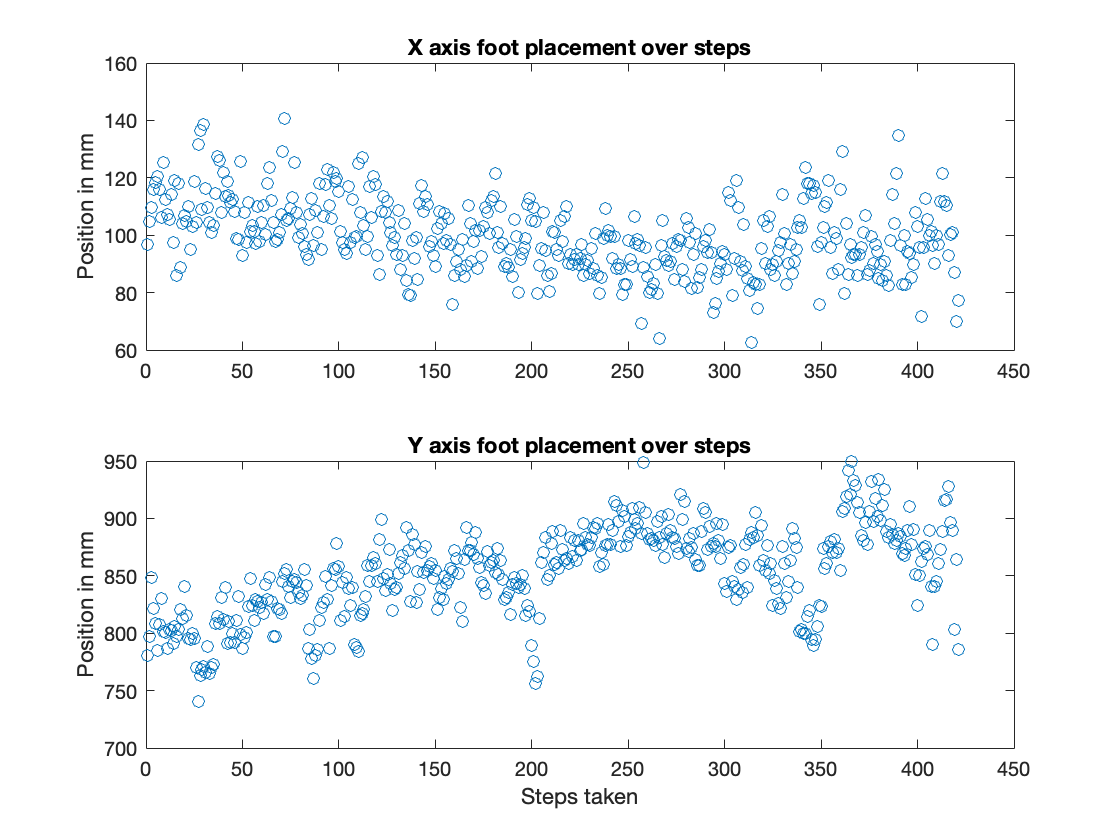
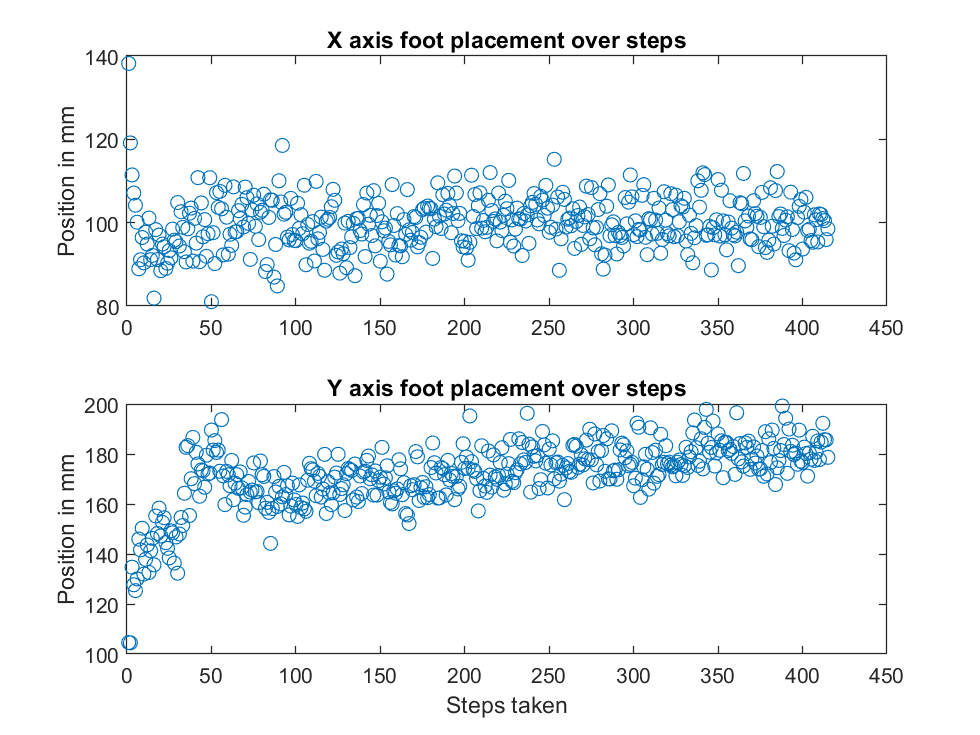
update Matlab code

diff --git a/Controller Inference/readViconData.m b/Controller Inference/readViconData.m
@@ -13,12 +13,32 @@ Foot_l_X = mean([ankle_marker_l(:,1), ankle_marker_l(:,4)], 2);
 Foot_l_Y = mean([ankle_marker_l(:,2), ankle_marker_l(:,5)], 2);
 Foot_l_Z = mean([ankle_marker_l(:,3), ankle_marker_l(:,6)], 2);
 
-%% Resampling force data into 100 Hz
-Force_r = []; Force_l = [];
+% Resampling force data into 100 Hz
+Force_r = []; Force_l = []; FP = [];
 for ii = 1:length(treadmill_r)/10
     Force_r(ii,1:9) = treadmill_r(ii*10-9,1:9);
-    Force_l(ii,1:9) = treadmill_r(ii*10-9,1:9);
+    Force_l(ii,1:9) = treadmill_l(ii*10-9,1:9);
+    FP(ii,1:3) = force_plate(ii*10-9,1:3);
 end
+
+%% Sync Data
+start_vec = find(FP(:,3) < -200);
+start_idx = start_vec(1);
+
+COM_pos_X = COM_pos_X(start_idx:start_idx+36000);
+COM_pos_Y = COM_pos_Y(start_idx:start_idx+36000);
+COM_pos_Z = COM_pos_Z(start_idx:start_idx+36000);
+
+Foot_r_X = Foot_r_X(start_idx:start_idx+36000);
+Foot_r_Y = Foot_r_Y(start_idx:start_idx+36000);
+Foot_r_Z = Foot_r_Z(start_idx:start_idx+36000);
+
+Foot_l_X = Foot_l_X(start_idx:start_idx+36000);
+Foot_l_Y = Foot_l_Y(start_idx:start_idx+36000);
+Foot_l_Z = Foot_l_Z(start_idx:start_idx+36000);
+
+Force_r = Force_r(start_idx:start_idx+36000,:);
+Force_l = Force_l(start_idx:start_idx+36000,:);
 %% Computing gait phase for both legs
 index_vec = Force_r(:,3) > -50;
 index_vec = find(diff(index_vec) == -1);
@@ -75,10 +95,10 @@ xlim([5000 5500])
 x1 = 1:length(Force_r(:,3));
 y1 = Force_r(:,3);
 
-footPlacement = [];
+footPlacement = []; 
 
 for ii = 1:length(GP_index)
-    footPlacement = [footPlacement; [GP_index(ii) Foot_r_X(GP_index(ii,1)) Foot_r_Y(GP_index(ii,1))]];
+    footPlacement = [footPlacement; [GP_index(ii) Foot_r_X(GP_index(ii,1))-COM_pos_X(GP_index(ii,1)) Foot_r_Y(GP_index(ii,1))-COM_pos_Y(GP_index(ii,1))]];
 end
 
 subplot(2,1,1)
@@ -90,7 +110,6 @@ plot(footPlacement(:,3), 'o')
 title('Y axis foot placement over steps')
 ylabel('Position in mm')
 xlabel('Steps taken')
-
 %%
 
 close all
